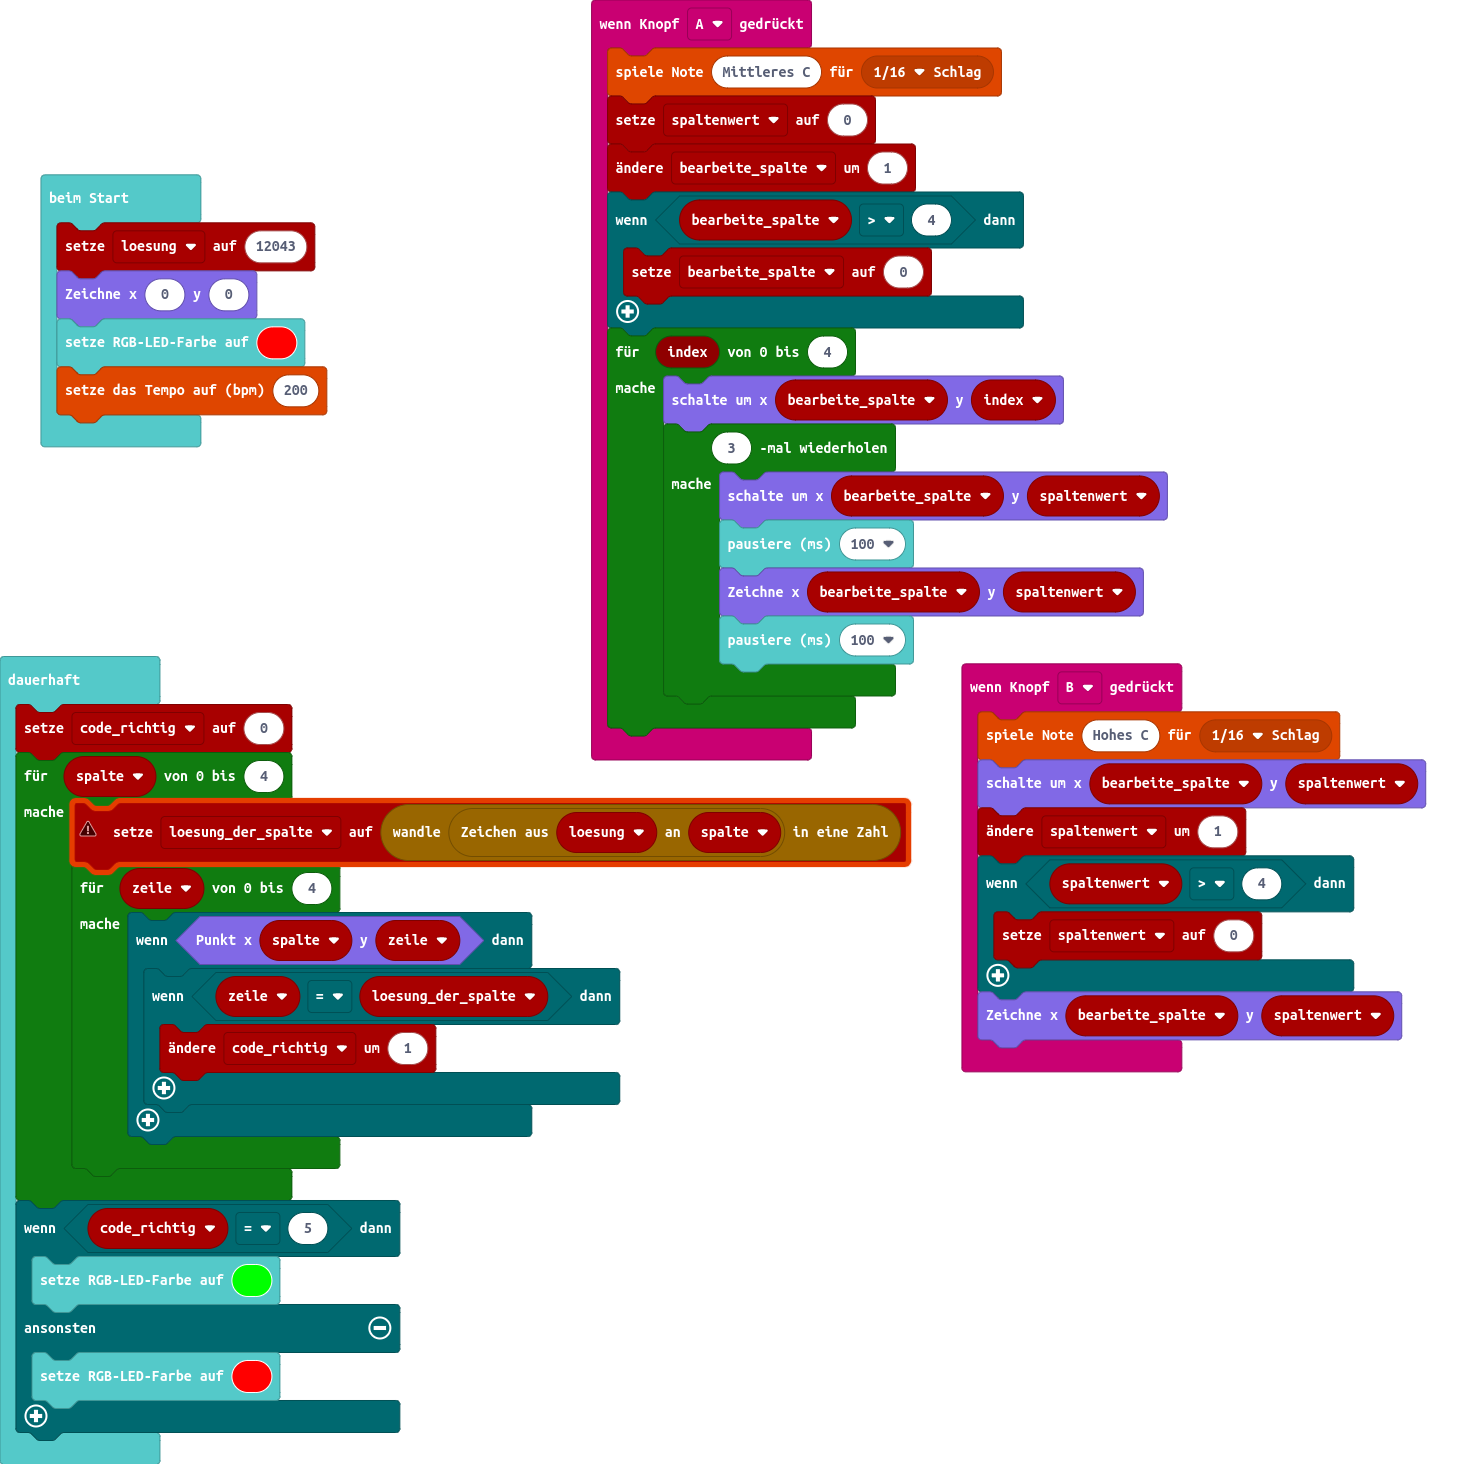
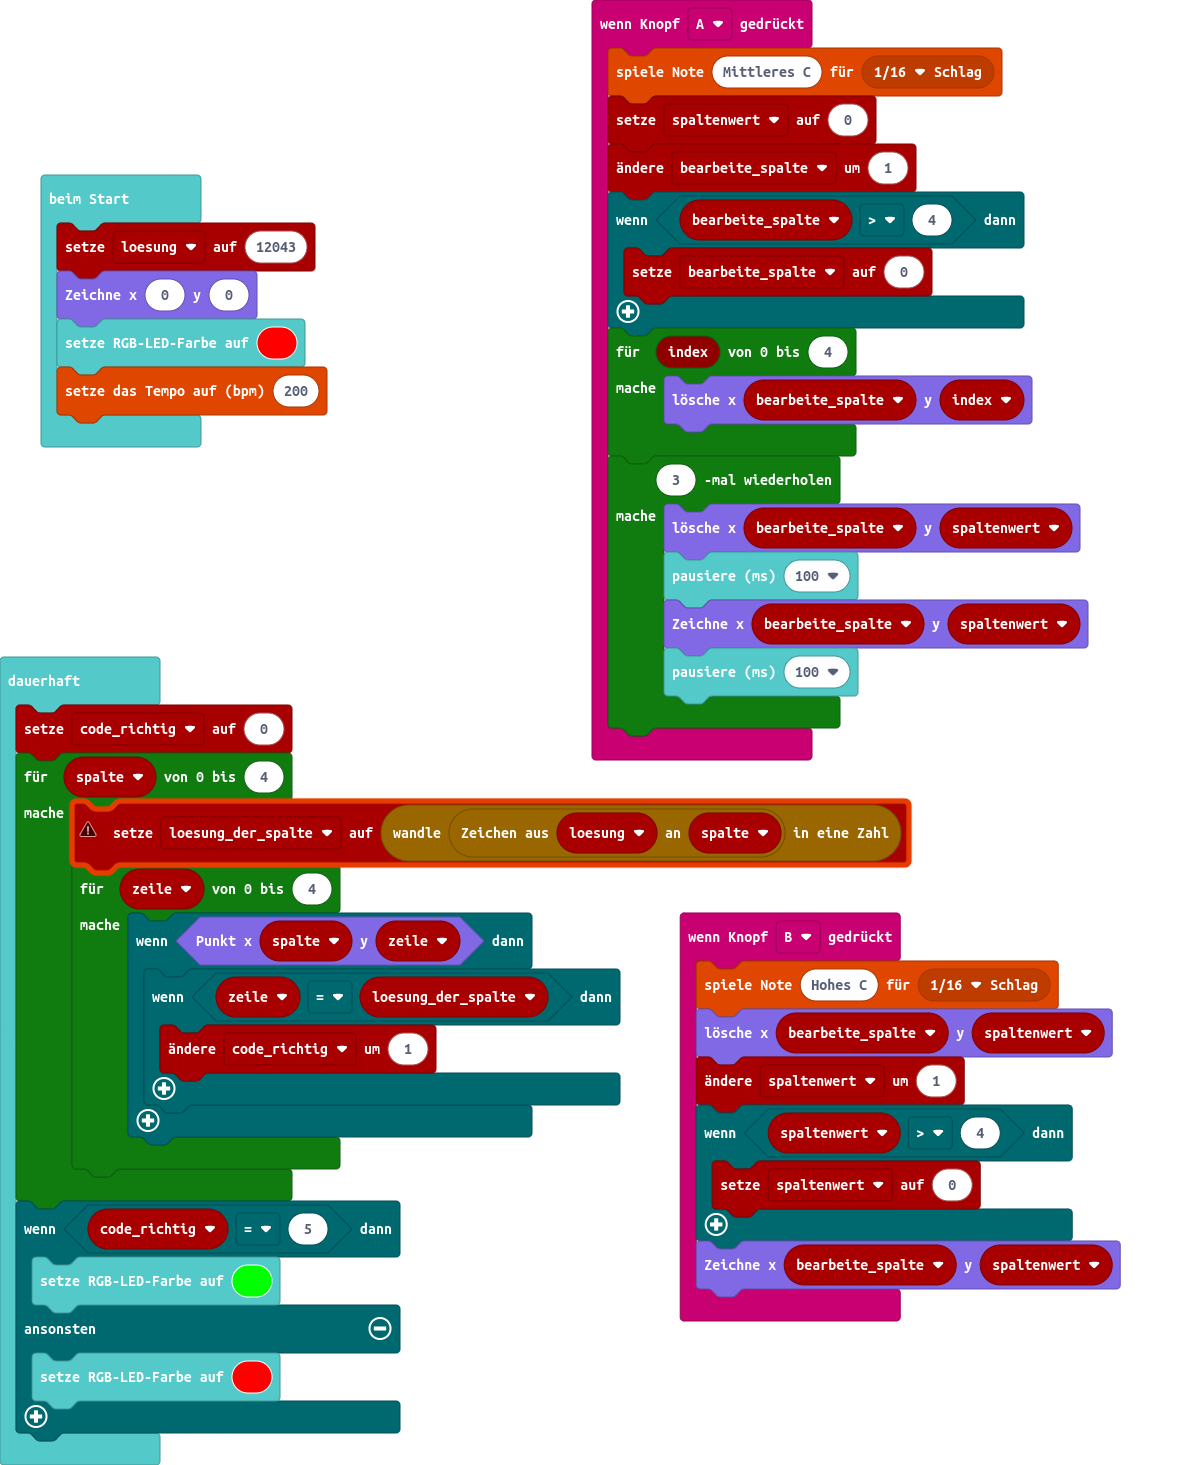
Aktualisiere main.blocks, main.ts

diff --git a/main.ts b/main.ts
@@ -6,18 +6,18 @@ input.onButtonPressed(Button.A, function () {
         bearbeite_spalte = 0
     }
     for (let index = 0; index <= 4; index++) {
-        led.toggle(bearbeite_spalte, index)
-        for (let index2 = 0; index2 < 3; index2++) {
-            led.toggle(bearbeite_spalte, spaltenwert)
-            basic.pause(100)
-            led.plot(bearbeite_spalte, spaltenwert)
-            basic.pause(100)
-        }
+        led.unplot(bearbeite_spalte, index)
+    }
+    for (let index = 0; index < 3; index++) {
+        led.unplot(bearbeite_spalte, spaltenwert)
+        basic.pause(100)
+        led.plot(bearbeite_spalte, spaltenwert)
+        basic.pause(100)
     }
 })
 input.onButtonPressed(Button.B, function () {
     music.playTone(523, music.beat(BeatFraction.Sixteenth))
-    led.toggle(bearbeite_spalte, spaltenwert)
+    led.unplot(bearbeite_spalte, spaltenwert)
     spaltenwert += 1
     if (spaltenwert > 4) {
         spaltenwert = 0
